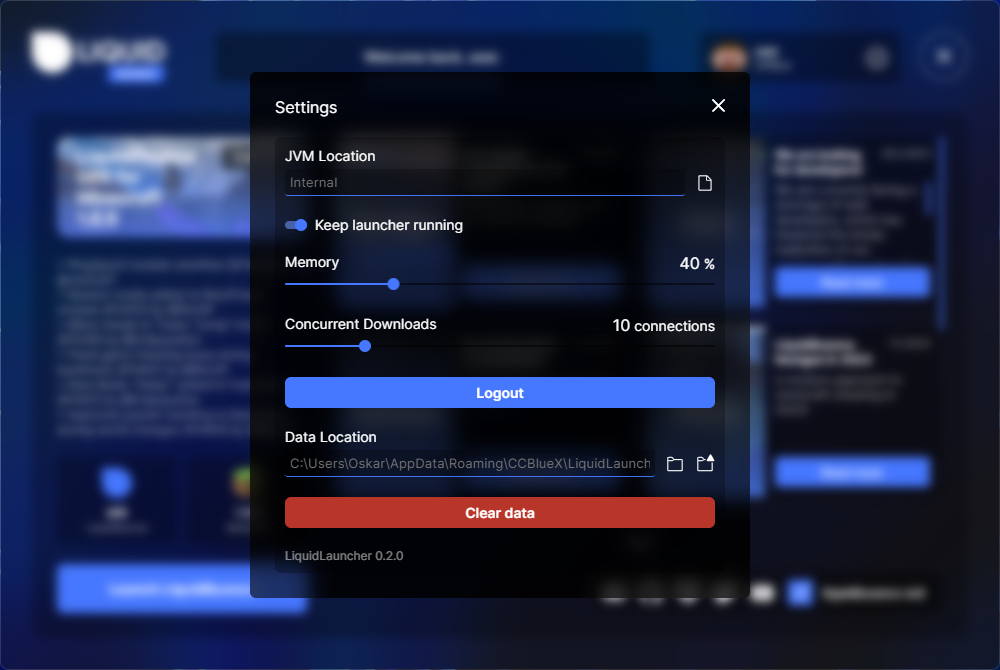
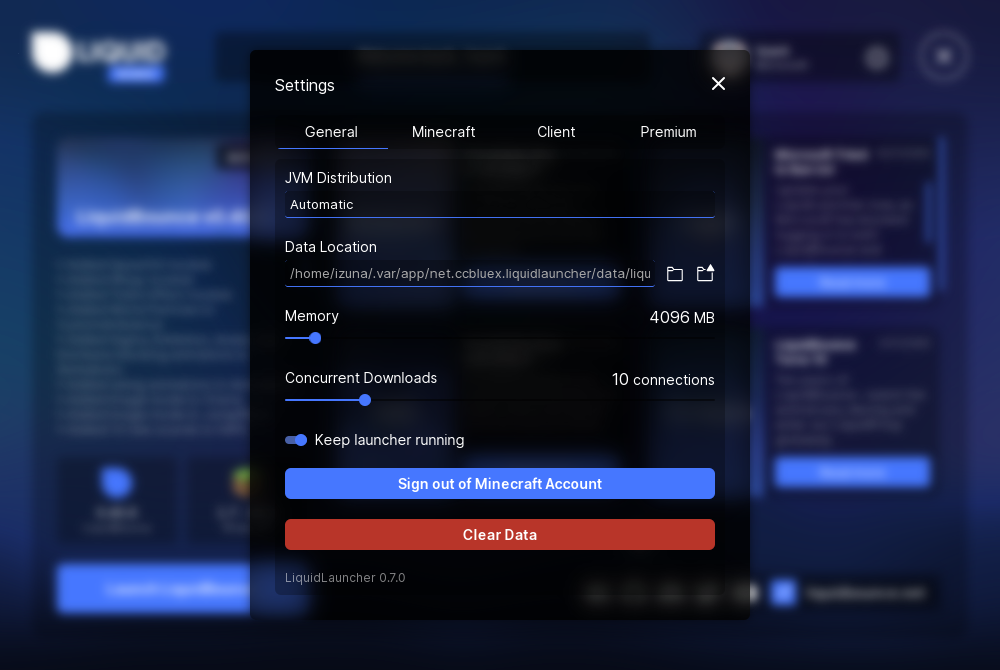
docs: new screenshots and readme restyle (#480)

diff --git a/README.md b/README.md
@@ -1,52 +1,47 @@
 # LiquidLauncher
+
 A custom Minecraft launcher for LiquidBounce.
 
-Website: https://liquidbounce.net \
-Forum: https://forums.ccbluex.net \
-Discord: https://liquidbounce.net/discord \
-YouTube: https://youtube.com/CCBlueX \
-Twitter: https://twitter.com/CCBlueX
+[![Website](https://img.shields.io/badge/Website-liquidbounce.net-4677FF?style=for-the-badge)](https://liquidbounce.net)
+[![Forum](https://img.shields.io/badge/Forum-forums.ccbluex.net-4677FF?style=for-the-badge)](https://forums.ccbluex.net)
+[![Discord](https://img.shields.io/badge/Discord-Join-5865F2?style=for-the-badge&logo=discord&logoColor=white)](https://liquidbounce.net/discord)
+[![YouTube](https://img.shields.io/badge/YouTube-CCBlueX-FF0000?style=for-the-badge&logo=youtube&logoColor=white)](https://youtube.com/CCBlueX)
 
 ## Installation
+
 Download the launcher for Windows, macOS or Linux from [liquidbounce.net](https://liquidbounce.net/download) or the [releases](https://github.com/CCBlueX/LiquidLauncher/releases).
 
-- Arch Linux: `liquidlauncher-bin` or `liquidlauncher-appimage` from the AUR
-- NixOS: `nix run github:CCBlueX/LiquidLauncher`, or add the flake's `packages.${pkgs.system}.default` to `environment.systemPackages`
+- **Arch Linux:** `liquidlauncher-bin` or `liquidlauncher-appimage` from the AUR
+- **NixOS:** `nix run github:CCBlueX/LiquidLauncher`, or add the flake's `packages.${pkgs.system}.default` to `environment.systemPackages`
 
 ## Screenshots
+
 <table>
-    <tr>
-        <td>
-            <img src="gh_assets/screenshot-1.png">
-        </td>
-        <td>
-            <img src="gh_assets/screenshot-2.png">
-        </td>
-    </tr>
-    <tr>
-        <td>
-            <img src="gh_assets/screenshot-3.png">
-        </td>
-        <td>
-            <img src="gh_assets/screenshot-4.png">
-        </td>
-    </tr>
-    <tr>
-        <td>
-            <img src="gh_assets/screenshot-5.png">
-        </td>
-    </tr>
+  <tr>
+    <td><img src="gh_assets/screenshot-1.png" alt="Login screen"></td>
+    <td><img src="gh_assets/screenshot-2.png" alt="Home screen"></td>
+  </tr>
+  <tr>
+    <td><img src="gh_assets/screenshot-3.png" alt="Build and mod selection"></td>
+    <td><img src="gh_assets/screenshot-4.png" alt="Settings"></td>
+  </tr>
+  <tr>
+    <td><img src="gh_assets/screenshot-5.png" alt="Client log"></td>
+  </tr>
 </table>
 
 ## Issues
-If you notice any bugs or missing features, you can let us know by opening an issue [here](https://github.com/CCBlueX/LiquidLauncher/issues).
+
+If you notice any bugs or missing features, let us know by opening an [issue](https://github.com/CCBlueX/LiquidLauncher/issues). For support, [contact us](https://ccbluex.net/contact). The imprint is at [ccbluex.net/imprint](https://ccbluex.net/imprint).
 
 ## License
+
 This project is subject to the [GNU General Public License v3.0](LICENSE). This does only apply for source code located directly in this clean repository. During the development and compilation process, additional source code may be used to which we have obtained no rights. Such code is not covered by the GPL license.
 
 For those who are unfamiliar with the license, here is a summary of its main points. This is by no means legal advice nor legally binding.
 
 You are allowed to
+
 - use
 - share
 - modify
@@ -54,29 +49,34 @@ You are allowed to
 this project entirely or partially for free and even commercially. However, please consider the following:
 
 - **You must disclose the source code of your modified work and the source code you took from this project. This means you are not allowed to use code from this project (even partially) in a closed-source (or even obfuscated) application.**
-- **Your modified application must also be licensed under the GPL** 
+- **Your modified application must also be licensed under the GPL**
 
 Do the above and share your source code with everyone; just like we do.
 
 ## Icons
+
 We use [Clarity Line Icons](https://www.svgrepo.com/collection/clarity-line-icons/) for this project.
 
 ## Compile it yourself!
+
 LiquidLauncher is using Tauri and is written in the programming language Rust, so make sure that it is installed properly. Instructions can be found on [Rust's website](https://www.rust-lang.org/learn/get-started). It also requires NodeJS and bun.
-1. Clone the repository using `git clone --recurse-submodules https://github.com/CCBlueX/LiquidLauncher`. 
-2. Navigate into your local repository folder.
-3. Execute the command `bun install && bun run build`
-4. Now you can start the launcher using `bun run tauri dev` or build it by using `bun run tauri build`
 
-## Imprint
-
-**CCBlueX**  
-Vahrenwalder Str. 269A \
-30179 Hanover \
-Germany
-
-Owner and responsible for the content: Marco Beyer
+```sh
+git clone --recurse-submodules https://github.com/CCBlueX/LiquidLauncher
+cd LiquidLauncher
+bun install && bun run build
+bun run tauri dev    # start the launcher
+bun run tauri build  # or build it
+```
 
 ## Contributing
 
 We appreciate contributions. So if you want to support us, feel free to make changes to LiquidLauncher's source code and submit a pull request.
+
+## Commits
+
+`type(scope): subject`, lowercase, no trailing period.
+
+`feat` `fix` `refactor` `chore` `docs`
+
+Add a short body when the subject alone leaves the next reader guessing.
